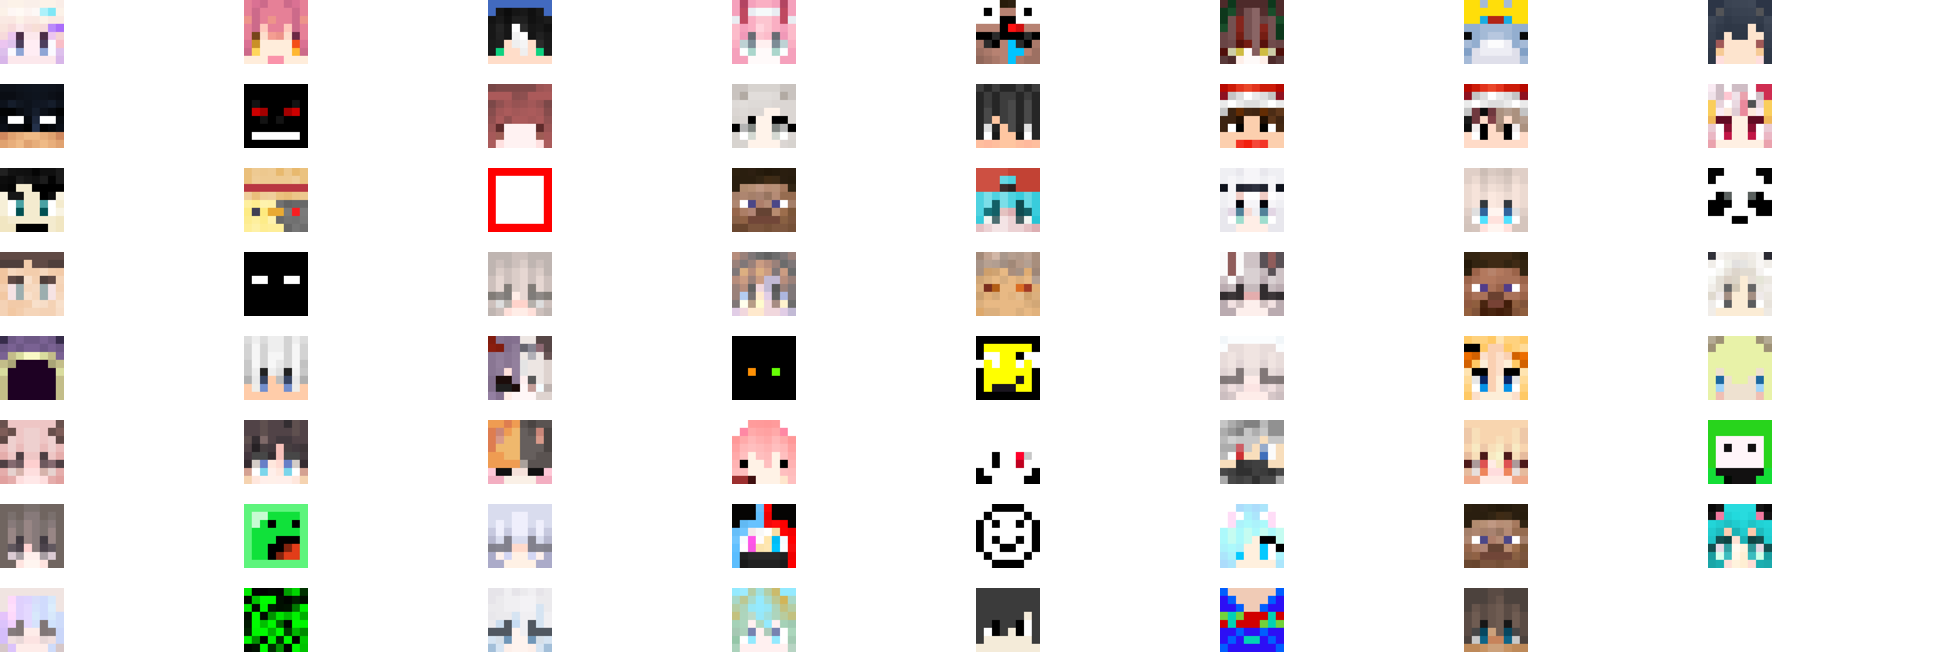
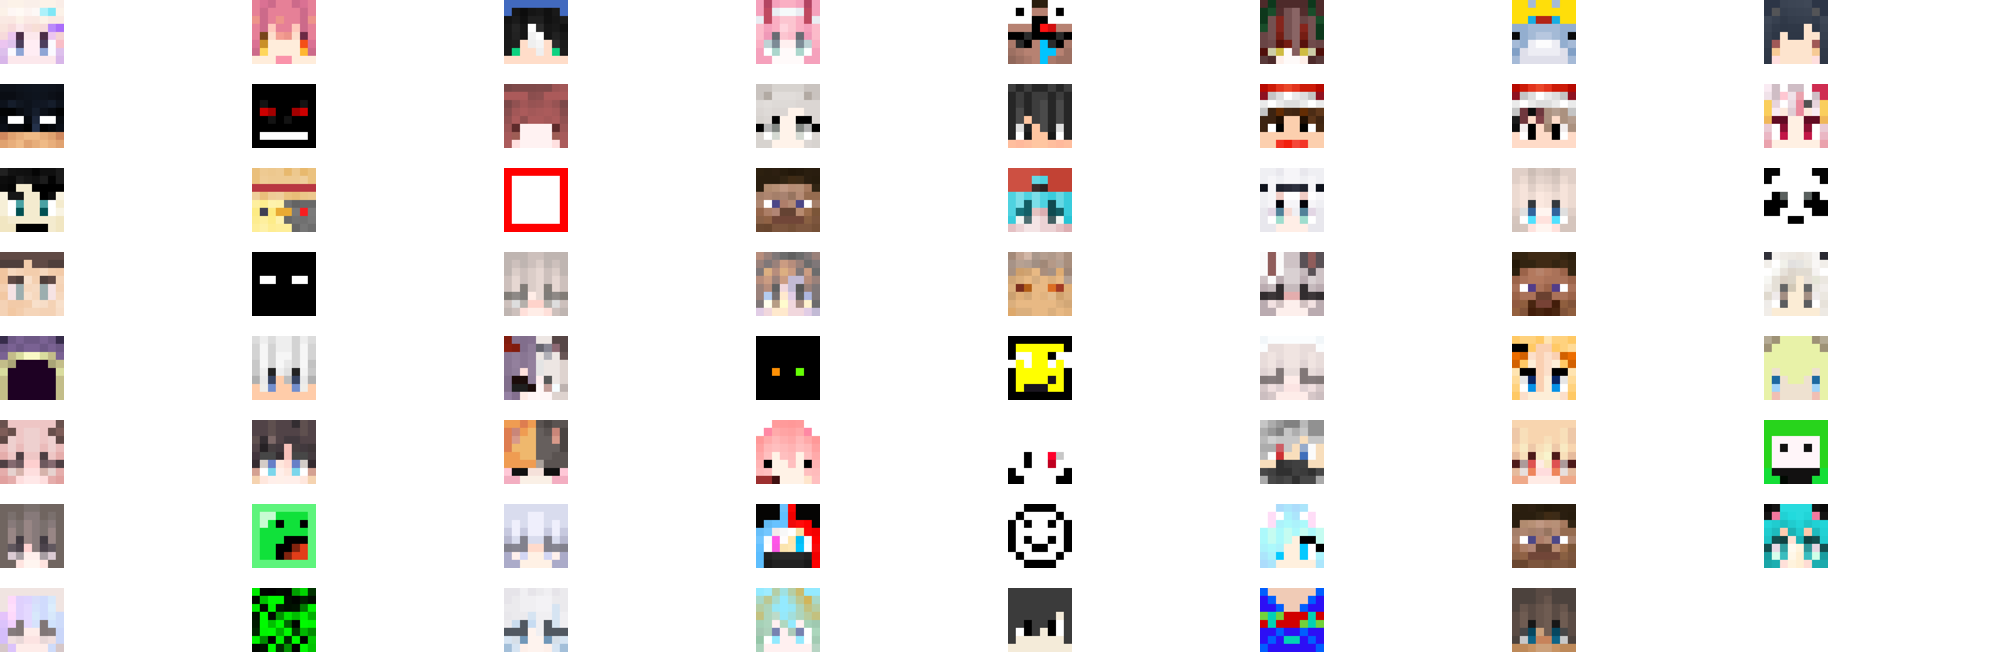
fix buf

diff --git a/make-member-list/main.py b/make-member-list/main.py
@@ -6,7 +6,7 @@ ROW_LEN = 8
 COLUMN_LEN = 8
 AVATAR_SIZE = 64
 FONT_SIZE = 20
-RIGHT_PADDING = 180
+RIGHT_PADDING = 188
 BOTTOM_PADDING = 20
 
 images = list(Path("avatars").glob("*.png"))
@@ -35,7 +35,7 @@ for row in range(ROW_LEN):
         imd = ImageDraw.Draw(background)
         imd.text(
             (
-                row_width + AVATAR_SIZE + 15,
+                row_width + AVATAR_SIZE + 12,
                 column_height + AVATAR_SIZE / 2 - FONT_SIZE / 2,
             ),
             file.stem,
